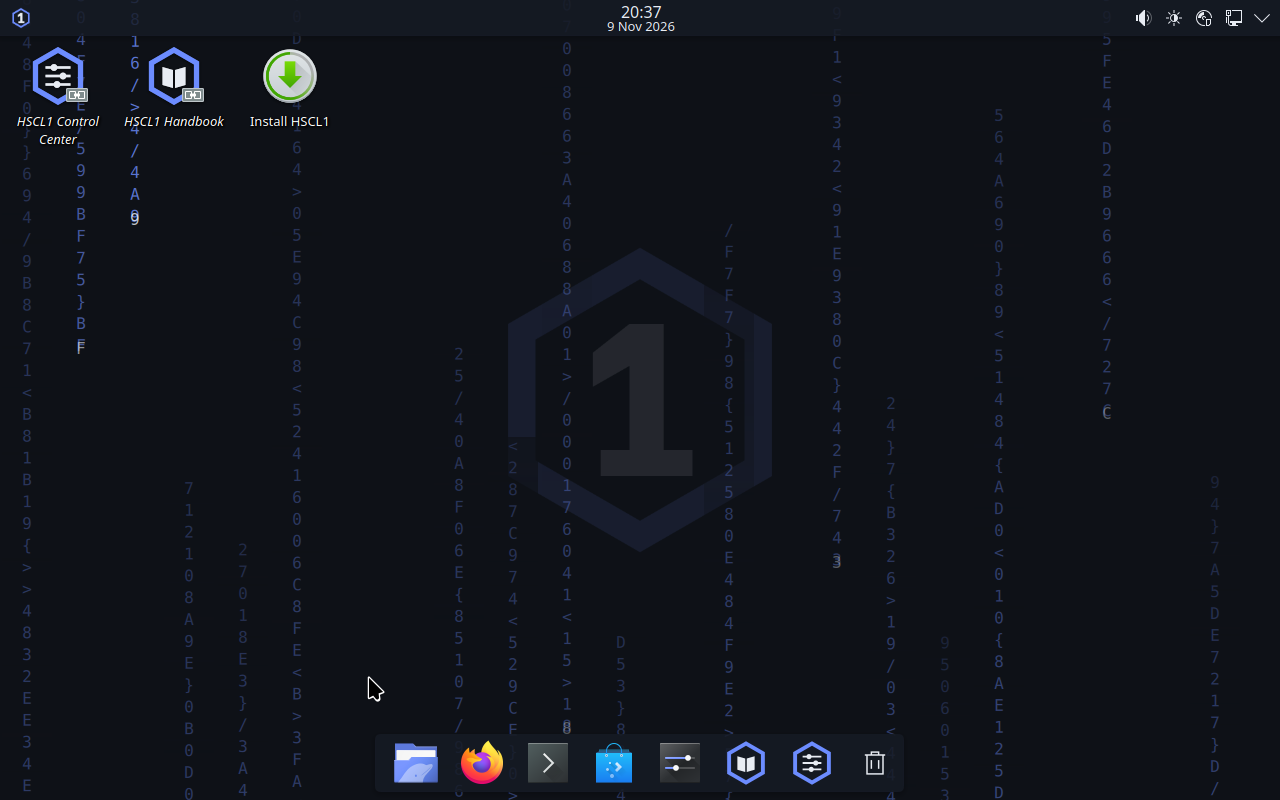
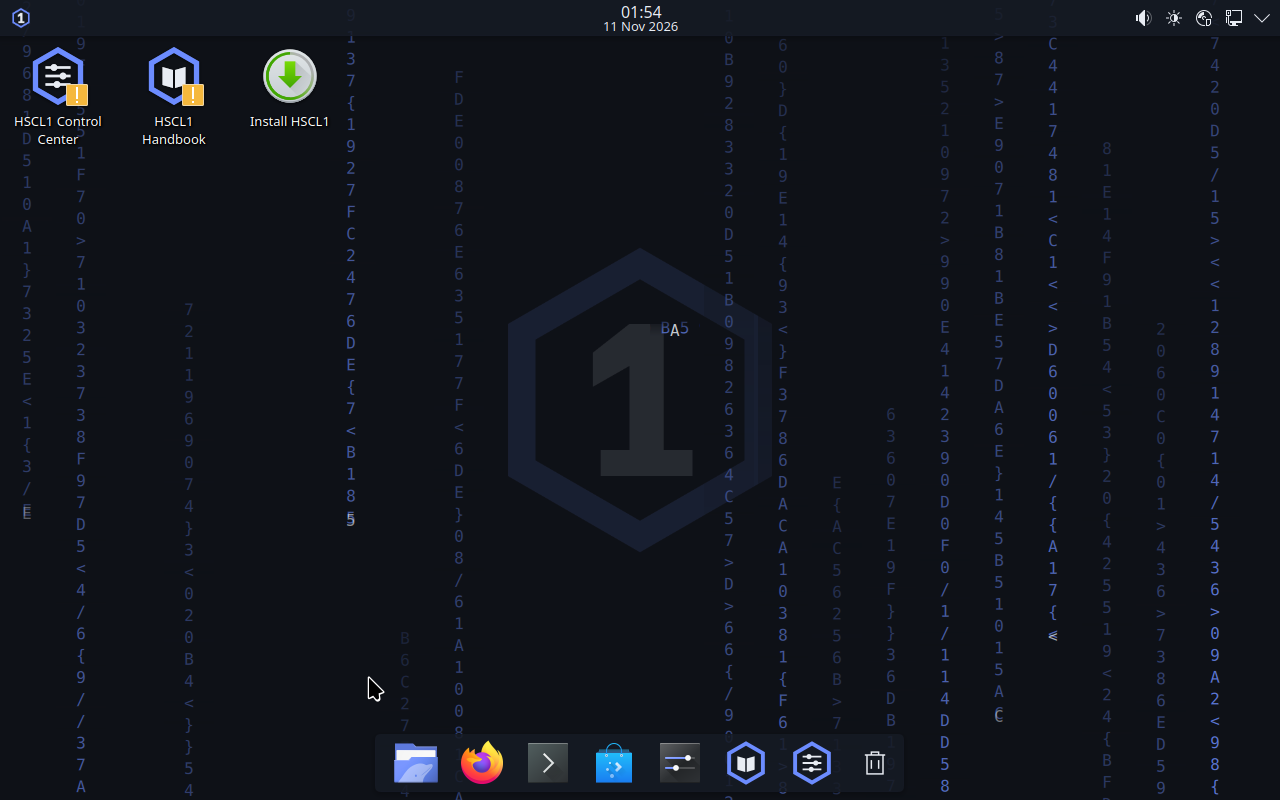
docs(rc4): upright labels and dark Kate verified; showcase refreshed

diff --git a/docs/AUTONOMOUS_QUEUE.md b/docs/AUTONOMOUS_QUEUE.md
@@ -54,13 +54,14 @@ booted-artifact evidence missing).
 | Q-39 | Discovery robustness on busy single-threaded devices | two-pass scan + settle + retry | DONE (2026-11-09) — burst collects open ports, sequential pass with delays and one retry; residual flakiness documented (`probe <ip>` is authoritative) || Q-38 | Pool slot API (`PUT /api/system/pools/<n>`) in the CLI | command + tests | **DONE 2026-11-09** — `hscl miner pool list|set` with validation (index 0–7, bare host, SV1/SV2), masked wallet, authorization phrase, dry-run; 4 Rust + 3 CLI tests |
 | Q-20 | Prevent QML lint regression | `QML_WARN_BUDGET` ratchet in `scripts/dev/qml-gate.sh` | DONE (2026-11-09, budget 152, verified to fail at 10) |
 | Q-19 | Reduce `qmllint` `[unqualified]` warnings in the Control Center (23 of 152) | `qml-gate.sh` warning budget lowered | **REDUCED 2026-11-10 (153 -> 149)** - `Main.qml` now reads the `cli` context property once into a declared `cliBackend` member and the five page bindings are qualified (`backend: win.cliBackend`), so exactly one unqualified access remains (the single context-property read). `test_cc_wiring.py` asserts both the 5 qualified bindings and the single read; the QML gate passes with 149 warnings. The remaining 149 are `[unqualified]` in Repeater delegates and the rain wallpaper plugin; each needs a per-file `required property` pass, which is mechanical but large. |
-| Q-52 | Desktop icon labels are italic and not centred under their icons | VM screenshot with upright, centred labels | **ROOT CAUSE FOUND 2026-11-11, fix in the tree, capture pending** - it is not the font: the image ships 314 Noto font files (and no Lato), and Plasma's `FolderItemDelegate.qml` line 380 is `font.italic: (main.model?.isLink ?? false)` - the two HSCL1 desktop entries were **symlinks**, and Plasma italicises link labels by design. The hook now installs real `.desktop` copies (`rm -f` the old links, `install -m 0644`), the image gate rejects a symlink for both entries, and `tests/unit/test_desktop_link_labels.py` pins it. Upright labels still need a booted capture; the third icon (`Install HSCL1`) comes from the ISO, not from this hook, and is not covered. The earlier 'no Noto font' hypothesis came from a shell run where `$R` expanded empty - corrected here. |
-| Q-53 | Kate renders light inside the dark shell while Dolphin/Konsole are dark | luminance comparison of Dolphin, Kate and Konsole on one artifact | **FIX IN THE TREE 2026-11-11, capture pending** - Kate does not follow the Plasma palette on its own: the window chrome uses `[UiSettings] ColorScheme` and the editor area the KSyntaxHighlighting `[KTextEditor Renderer] Color Theme` (KDE docs, 'Working with Color Themes'). The hook now writes `/etc/skel/.config/katerc` with both set to Breeze Dark plus `Auto Color Theme Selection=false`, so new and live users open dark; `tests/unit/test_kate_dark_default.py` pins it. The showcase capture still shows the light window until a booted run replaces it. |
+| Q-52 | Desktop icon labels are italic and not centred under their icons | upright labels in a booted rc4 capture (done for the italic part) | **CLOSED for the italics 2026-11-11** - verified on rc4 (`2277a09c…`, `artifacts/boot-visual-rc4/v1-desktop-labels.png`): all three labels are upright. Root cause was Plasma's `FolderItemDelegate.qml` (`font.italic: model.isLink`), and the entries were symlinks; they are real `.desktop` files now, the image gate rejects a symlink, `tests/unit/test_desktop_link_labels.py` pins it. The remaining two-line wrap alignment is split off as **Q-60**. |
+| Q-53 | Kate renders light inside the dark shell while Dolphin/Konsole are dark | luminance comparison of Dolphin, Kate and Konsole on one artifact (done on rc4) | **CLOSED 2026-11-11** - `artifacts/boot-visual-rc4/v2-kate.png` shows Kate with `/etc/os-release` opened on rc4: window chrome, menu bar and editor area are dark like Dolphin and Konsole. The hook ships `/etc/skel/.config/katerc` with `[UiSettings] ColorScheme=Breeze Dark`, `[KTextEditor Renderer] Color Theme=Breeze Dark` and `Auto Color Theme Selection=false`; `tests/unit/test_kate_dark_default.py` pins the keys. The showcase image `14_app_kate.png` is that capture. |
 | Q-54 | Recapture installer welcome/encryption and handbook screenshots on `rc2` | `manifest.json` entry with `source_iso` per image | **PARTIAL 2026-11-11** - the installer pages are refreshed from the rc3 LUKS run, which is the first run through the software-rendering wrapper: `11_installer_welcome.png` (l01), `19_installer_partitions.png` (l02) and a new `21_installer_encryption_luks.png` (l03: erase disk + encrypt with the LUKS2 plan). `18_installer_notes_encryption.png` stays from 2026-11-09 - the notes text is unchanged, but it is not an rc3 capture and the manifest keeps that older timestamp. The **handbook** page is still open; it needs a boot where `hscl-handbook` opens in a visible window. |
 | Q-55 | Website hero and Control Center image are older than the current candidate | `website/dist/img/*` refreshed + `test_website_build.py` green | **DONE (wording + images) 2026-11-10** - the generator now copies `showcase/01_desktop_clean.png` and `showcase/04_control_center_overview.png`; EN/DE/FR status bullets name the verified lab chain and the Secure Boot fact. A capture from the 0.1.5 candidate is still pending, so the images are the newest verified ones rather than brand new. |
 | Q-56 | The published `v0.1.4-alpha.0` ISO predates the tree by 118 commits | new candidate built from `HEAD`, VM-verified, split, released; `release.json` + README synced | **DONE 2026-11-10** - `HSCL1-0.1.5-alpha.0-amd64.iso` (`c3ae31a6…`, 5 027 135 488 B, source `406186d`, xz) built, UEFI-booted at 4 GB (desktop 242 s, `qa_report.py` exit 0), split into 3 parts whose rejoin hash equals the ISO, tagged `v0.1.5-alpha.0` and published as a prerelease with 8 assets; `website/data/release.json` and the README download section carry the new checksums. Four later commits touch tests/docs/one `rustfmt` reflow only and the notes say so. |
 | Q-57 | Wallpaper preset switching may not take effect: `grid` and `rain` captures render as **starfield** | four visibly different frames from one boot | **CLOSED 2026-11-11** - one rc3 boot, four shots after `hscl appearance wallpaper set` with the real preset ids: aurora 70 293 B / 7 168 colours, starfield 47 377 / 6 064, grid pulse 53 912 / 6 114, midnight rain 182 660 / 23 821 - all visibly different (`artifacts/boot-wallpapers-rc3/wd1`…`wd4`), and the showcase now shows all four. The 2026-11-10 series had typed effect names (`grid`, `rain`), which are not preset ids; `wd5` shows that error. `wallpaper::find` now names the presets that carry an effect (unit test `an_effect_name_points_at_the_presets_that_carry_it`). |
 | Q-58 | `kate` launched from the harness does not reach a visible window | Kate window in the capture with the palette comparison | **OPEN 2026-11-10** - `artifacts/boot-showcase-apps/kc1-kate-osrelease.png` still shows the Konsole command line (`kate /etc/os-release > /dev/null 2>&1`) with no Kate window, so the existing `14_app_kate.png` could not be replaced. |
+| Q-60 | Two-line desktop icon labels wrap left of the icon centre | labels centred under their icons | **OPEN 2026-11-11** - measured on rc4 (`artifacts/boot-visual-rc4/v1-desktop-labels.png`): "HSCL1 Control" / "Center" starts at the label's left edge although `FolderItemDelegate.qml` sets `Text.AlignHCenter`; the label box is wider than the icon, so the centre of the box is not the centre of the icon. Cosmetic, upstream behaviour, not claimed fixed. |
 
 ## Next (after Now)
 

diff --git a/docs/KNOWN_LIMITATIONS.md b/docs/KNOWN_LIMITATIONS.md
@@ -43,7 +43,7 @@ Image evidence is bound to its build. The local `0.1.3-alpha.0` ISO has SHA-256 
 | NP benchmark: DRAT proof checking | **RAT not implemented** | `tools/npbench/npbench/drat.py` reads the DRAT line format and checks every addition by RUP against the active clause database (deletions honoured). A step that is not RUP is reported `rat_unsupported` and the verdict stays `unknown`; the checker therefore accepts only RUP-only DRAT proofs, which is a strict subset of valid DRAT. No external solver was run through it, so "DRAT-checked" is not claimed for any third-party proof. |
 | NP benchmark: scope | correctness, not competitiveness | The four families (SAT, graph, TSP, knapsack) use pure-Python solvers on small instances; the reports never compare them to CaDiCaL/Kissat or claim hardness results. No external instance set (TSPLIB, DIMACS, FHCP, MIPLIB) is downloaded or bundled - licence question open. |
 | CQ-HECS DIMACS parser differential matrix (audit P1) | **recorded, partially measurable only** | `tests/unit/test_npbench_diff.py` pins our parser's behaviour for eleven input classes against the matrix in `docs/research/HCSPNP_BASELINE.md` (always runs). The second half executes the real `cqhecs.sat.parse_dimacs` and **skips with an explicit reason** when the local clone (`HSCL1_CQHECS_CLONE`) or an interpreter with qiskit (`HSCL1_CQHECS_PYTHON`) is absent - a CI runner has neither. The native C++ parser column of the audit table is **still read, never executed**: `cpp/` is not built in this workspace, so the native side of P1 is an audit finding, not a measurement. |
-| Desktop icon labels (visual QA 2026-11-09) | **VM-VERIFIED fixed** | The three entries were dark navy on a near-black wallpaper. Root cause was the light session palette, not the wallpaper: after the palette fix the candidate `HSCL1-qa-2026-11-09` (`118029de…`) shows white, legible labels in QEMU/WHPX. |
+| Desktop icon labels (visual QA 2026-11-09) | **contrast and italics fixed, wrap alignment open** | The three entries were dark navy on a near-black wallpaper; the palette fix made them white and legible (`HSCL1-qa-2026-11-09`, `118029de…`). They were also drawn in italics because they were **symlinks** - Plasma's `FolderItemDelegate.qml` sets `font.italic: model.isLink`; since rc4 (`2277a09c…`) they are real `.desktop` files and a booted capture shows upright labels between (`artifacts/boot-visual-rc4/v1-desktop-labels.png`). Remaining cosmetic detail: a two-line label wraps to the left of the icon centre (Q-60), which is upstream FolderView behaviour. |
 | Qt application palette (visual QA 2026-11-09) | **VM-VERIFIED fixed** | `Dolphin` and `Konsole` were light while the Plasma shell was dark. Hook `010-hscl-defaults.sh` writes `ColorScheme=HCSMidnight` into `kubuntu-default-settings` **and** `/etc/skel/.config/kdeglobals` (the first two build attempts failed on exactly those two gates). Candidate `HSCL1-qa-2026-11-09` measured: Dolphin 27.2, Konsole 37.1 mean luminance vs 230.1 before. |
 | Launcher category list (visual QA 2026-11-09) | **VM-VERIFIED fixed (English)** | The candidate shows one entry per category (Development, Education, Games, Graphics, Help, Internet, Multimedia, Office, Science & Math, System); the `Development` + `Développement` duplication is gone. German/French titles now come from `.directory` files and have **not** been exercised in a running session, only in the file tests. |
 | Showcase screenshot captions | **fixed reference, capture pending** | `13_offline_handbook.png` was captioned "Trilingual Offline Handbook" but contained only the desktop. The image and its manifest entry were removed and the README now states that the capture is pending (`tests/unit/test_showcase_evidence.py` keeps the README links and manifest in step). A genuine handbook capture must come from the next candidate. |

diff --git a/docs/BUILD_LOG.md b/docs/BUILD_LOG.md
@@ -1874,6 +1874,23 @@ Booted at 4 GB with `--qa-out`: `scripts/qa_report.py` → **exit 0** (9 checks 
 Boot), `hscl doctor` 6 passed / 0 failed / 1 skipped, `hscl status` valid JSON with `luks_mapped_devices: 0` on
 the live medium.
 
+### rc4 visual check: upright labels, dark Kate, the hint in the image (2026-11-11)
+
+`tests/visual/scenarios/verify-visual-fixes.json` on rc4 (`2277a09c…`, 4 GB, UEFI), 326 s, captures in
+`artifacts/boot-visual-rc4`:
+
+| Claim | Capture | Result |
+|---|---|---|
+| Desktop labels are upright | `v1-desktop-labels.png`, `v4-desktop-clean.png` | **yes** - "HSCL1 Control Center", "HSCL1 Handbook" and "Install HSCL1" are upright; the entries are real `.desktop` files, and Plasma italicises only links |
+| Kate matches the dark shell | `v2-kate.png` | **yes** - window chrome, menu bar and editor area are dark (`katerc` pins Breeze Dark); `/etc/os-release` is open in the editor |
+| Preset list shows the effect | `v5-preset-list-with-effects.png` | **yes** - `id`, `effect`, name, plus "Use the preset id with `hscl appearance wallpaper set <id>`" |
+| An effect name gets a useful error | `v6-effect-name-hint.png` | **yes** - `hscl: error: "grid" is an effect, not a preset id; run one of "grid-pulse" …` |
+
+Two honest limits: the two-line label under the first icon still wraps left ("HSCL1 Control" / "Center" starts at
+the label's left edge) although `FolderItemDelegate.qml` sets `Text.AlignHCenter` - that is tracked as Q-60, not
+fixed. And `hscl appearance wallpaper set grid-pulse` was not repeated in this run; the four effects were verified
+on rc3 (`artifacts/boot-wallpapers-rc3`).
+
 ### Version state (2026-11-10)
 
 `VERSION` in the tree is **0.1.5-alpha.0** (commit `014b71e`, authored 2026-11-10 22:29, touching VERSION,
